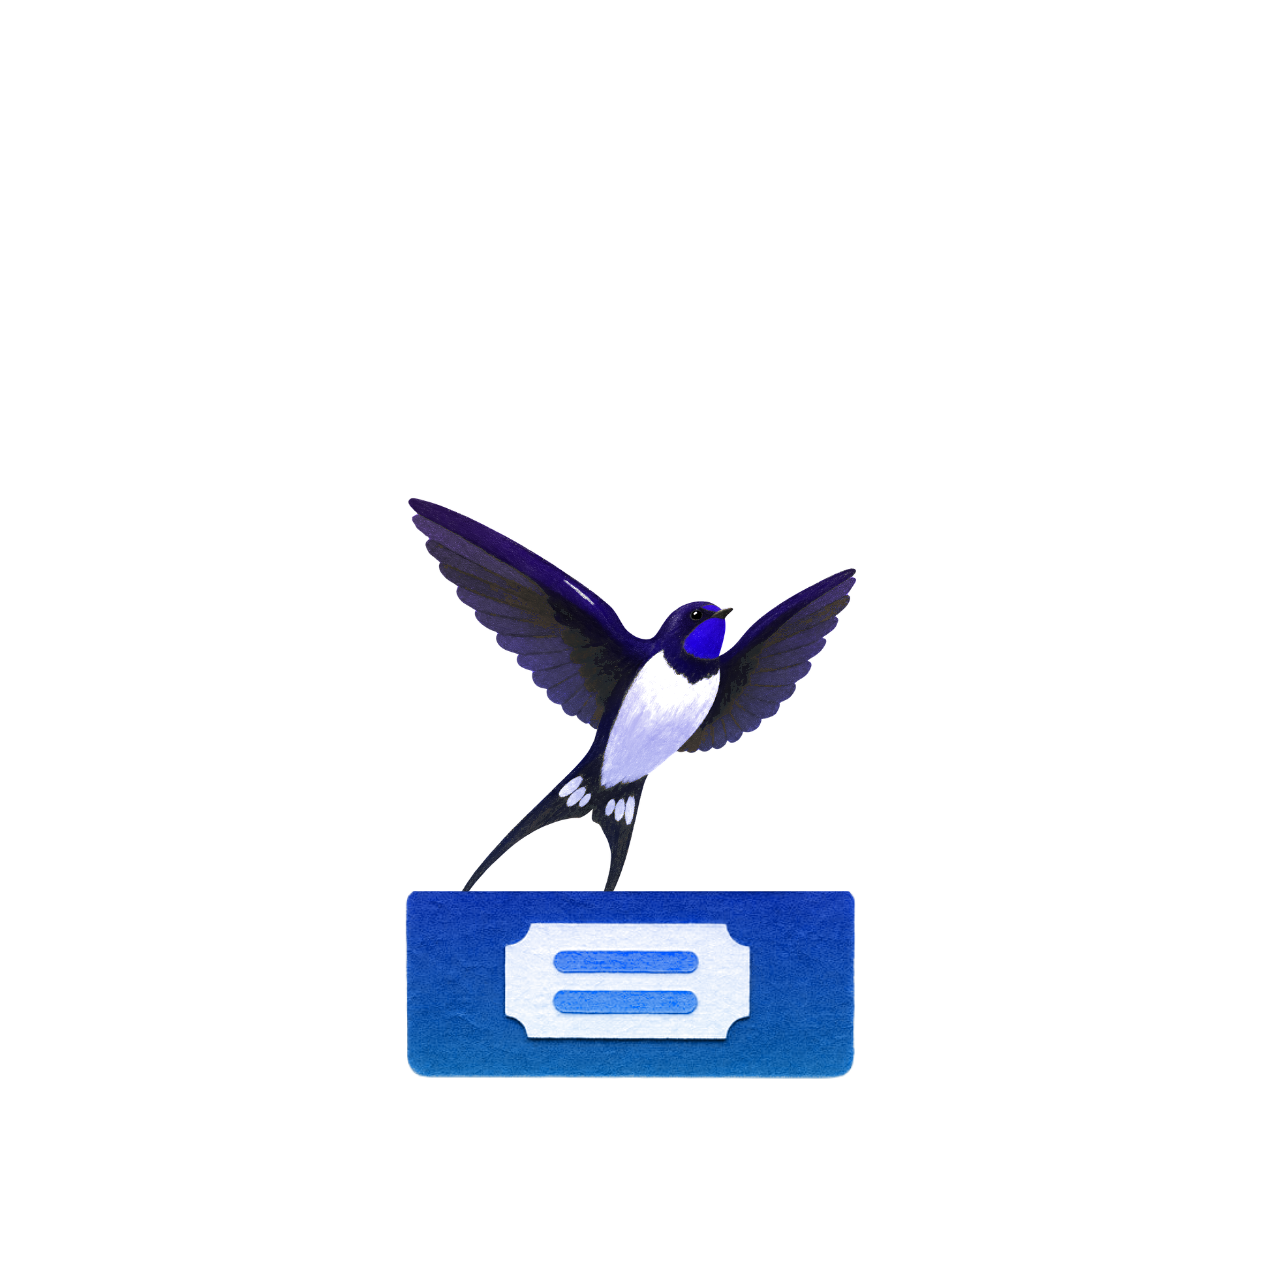
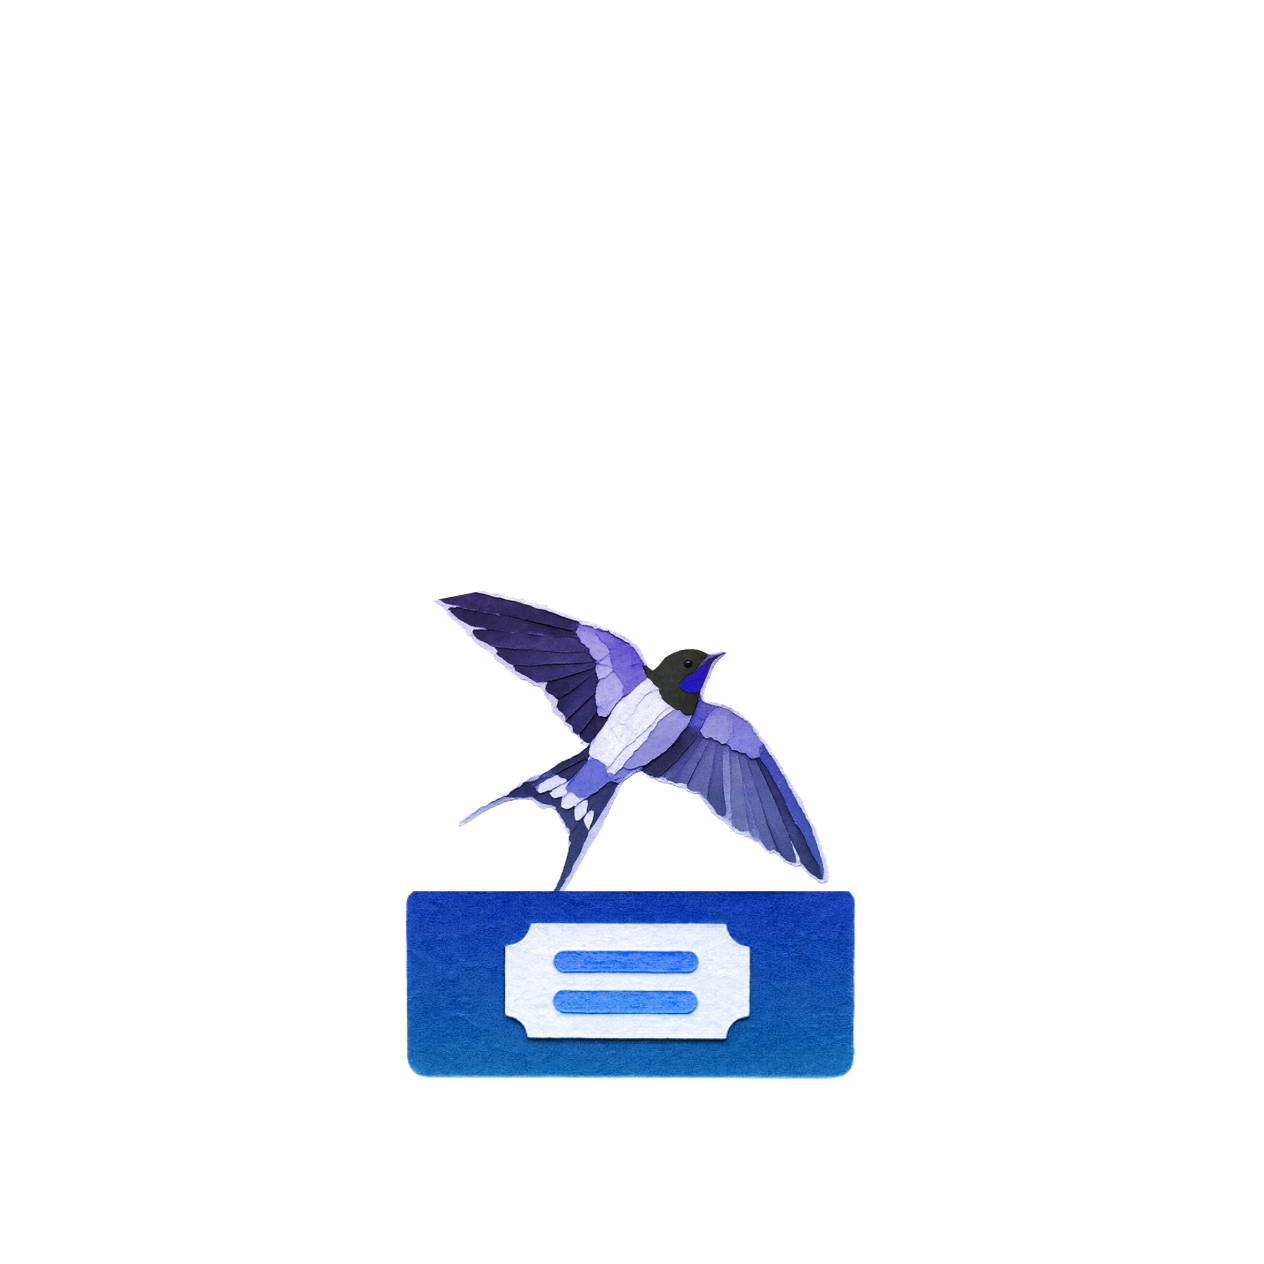
Trophee Hirondelles & martinets : 6 nouveaux visuels papier-craft Canva (v2). Cache v189.

Changed region(s): [[0.3085, 0.3703, 0.6788, 0.7097]]

diff --git a/service-worker.js b/service-worker.js
@@ -3,7 +3,7 @@
 //   puis rafraichit en background. Prochain reload = nouvelle version.
 // - Requetes cross-origin (Firestore, iNaturalist, xeno-canto, Wikipedia, etc.) : reseau seul.
 // - Bump CACHE_VERSION quand on veut invalider volontairement.
-const CACHE_VERSION = 'v188-2026-09-15-showcase-cup-160-a-190';
+const CACHE_VERSION = 'v189-2026-09-15-trophee-hirundinidae-v2';
 const CACHE_NAME = 'lmb-' + CACHE_VERSION;
 
 self.addEventListener('install', (e) => {
